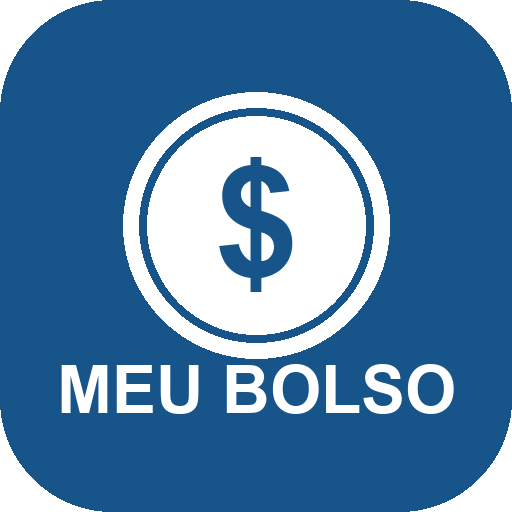
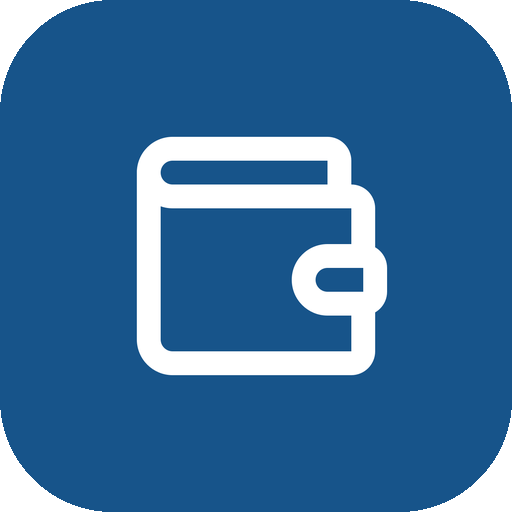
Icone novo: carteira branca em fundo azul, sem texto

Changed region(s): [[0.0938, 0.1562, 0.9062, 0.8125]]

diff --git a/sw.js b/sw.js
@@ -1,5 +1,5 @@
 /* Meu Bolso — service worker: app shell offline (cache-first) */
-const VERSAO = "meubolso-v6";
+const VERSAO = "meubolso-v6.1";
 const ARQUIVOS = [
   "./",
   "./index.html",